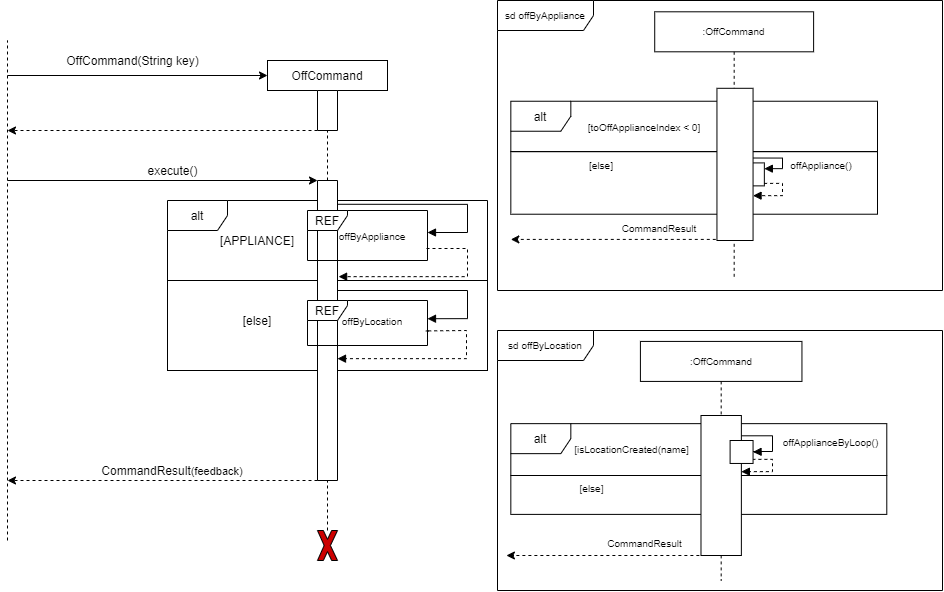
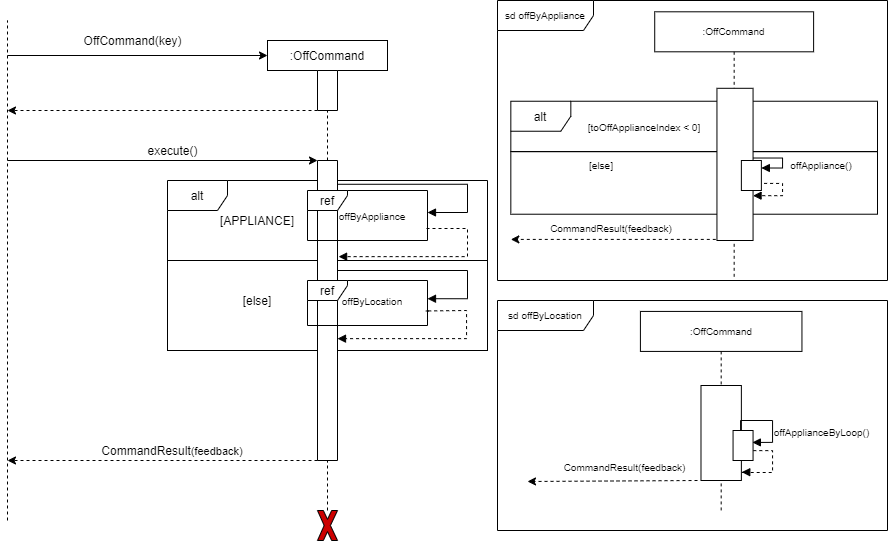
Added new information for the DeveloperGuide.md

diff --git a/docs/DeveloperGuide.md b/docs/DeveloperGuide.md
@@ -63,49 +63,96 @@ The rest of the App consists of four components.
 
 
 ### Model Component
-
+![Model Component](images/diagrams/ClassDiagram_DataOverview.png)
 
  
 ## Implementation
 
-### Model Component
-![Summarised Model Component](images/diagrams/SummarisedClassDiagram.png)
-
-The *Model Component* shown above explains the summarised model of SmartHomeBot. The four appliances classes are extended from the abstract appliance class. 
-
+### Data Component
 ### Detailed Model Component 
-![Detailed Model Component](images/diagrams/FullDataClassDiagram.png)
-The *Detailed Model Component* shown above explains the full detailed model of SmartHomeBot; which includes all of their variables and methods. 
+The *Model Component* shown above explains the summarised model of SmartHomeBot. The four appliances classes are extended
+from the abstract appliance class. 
+
+![Detailed Model Component](images/diagrams/ClassDiagram_DetailedData.png)
+
+To create an Appliance, we pass the name, location, wattage, power and the entire locationList. We first check from the 
+locationList if the name of the appliance is inside the locationList, and the location exists within the locationList. 
+If all these conditions are met, the Appliance will be created. It will be appended into the ApplianceList with the 
+`addAppliance()` method. 
+
+The Power class is responsible for computing the appliance’s power consumption.
+
+The public methods in the Appliances accessible via the ApplianceList are used to manipulate the appliances such as
+turning `ON` and `OFF`. From the appliance class, the program will be able to retrieving the name, location, statuses of
+the appliances. 
 
 ### Command Component
 
 #### Create Command
 ![Sequence of Create Command](images/diagrams/Sequence_CreateCommand.png) <br>
-The *Create Command* shown above explains the Sequence Diagram of the Create Command.
+The *CreateCommand* shown above explains the Sequence Diagram of the Create Command.
 #### Remove Command 
 ![Sequence of Remove Command](images/diagrams/Sequence_RemoveCommand.png) <br>
-The *Remove Command* shown above explains the Sequence Diagram of the Remove Command.
+The *RemoveCommand* shown above explains the Sequence Diagram of the Remove Command.
 #### Add Command
 ![Sequence of Add Command](images/diagrams/Sequence_AddCommand.png) <br>
-The *Add Command* shown above explains the Sequence Diagram of the Add Command.
+The *AddCommand* shown above explains the Sequence Diagram of the Add Command.
 #### Delete Command
 ![Sequence of Delete Command](images/diagrams/Sequence_DeleteCommand.png) <br>
-The *Delete Command* shown above explains the Sequence Diagram of the Delete Command.
+The *DeleteCommand* shown above explains the Sequence Diagram of the Delete Command.
 #### On Command
+
+The *OnCommand* shown below explains the Sequence Diagram of the On Command. When the Main class calls the execute() function there will be are 2 cases for on command to flow:
+1. OnByLocation
+2. OnByAppliance
+
 ![Sequence of On Command](images/diagrams/Sequence_OnCommand.png) <br>
-The *On Command* shown above explains the Sequence Diagram of the On Command.
+
+The program will determine if the user inputted: key is a name of an appliance, or a location.THis is done by checking the key in the LocationList, if it exists, the program will deem it as 'OnByLocation' vice versa.
+
+##### 1. OnByLocation
+The first condition checks if the user types in any parameter into the command, if so, the program will be unable to turn on
+the appliances in the location. This is done as not all parameters are accepted by every appliance, for example,
+setTemperature is only accepted for Air Conditioner. Thus, the parameter option is only opened to the OnByAppliance method.
+Then, onByApplianceLoop will be called to turn on all appliances in the location.
+
+##### 2. OnByAppliance
+The first condition checks the index of the tagged appliance in the applianceList. If the index is negative, this signifies
+that that key does not exist in the location or appliance list. Else, we will call the onAppliance method.
+
+##### CommandResult
+Each condition will correspond to a reciprocal CommandResult printout.
+
+
 #### Off Command
+
+The *OffCommand* shown below explains the Sequence Diagram of the Off Command. When the Main class calls the `execute()` function there are 2 cases for off command:
+1. OnByLocation
+2. OnByAppliance
+
 ![Sequence of Off Command](images/diagrams/Sequence_OffCommand.png) <br>
-The *Off Command* shown above explains the Sequence Diagram of the Off Command.
+
+The program will determine if the user inputted: key is a name of an appliance or a location. This is done by checking the key in the LocationList, if it exists, the program will deem it as 'OffByLocation' vice versa.
+
+##### 1. OffByLocation
+This method will call offByApplianceLoop which turns off every appliance in that location.
+
+##### 2. OffByAppliance
+The first condition checks the index of the tagged appliance in the applianceList. If the index is negative, this signifies that that key does not exist in the location or appliance list. Else, we will call the offAppliance method.
+
+##### CommandResult
+Each condition will correspond to a reciprocal CommandResult printout.
+
+
 #### Invalid Command
 ![Sequence of Invalid Command](images/diagrams/Sequence_InvalidCommand.png) <br>
-The *Invalid Command* shown above explains the Sequence Diagram of the Invalid Command.
+The *InvalidCommand* shown above explains the Sequence Diagram of the Invalid Command.
 #### Help Command
 ![Sequence of Help Command](images/diagrams/Sequence_HelpCommand.png) <br>
-The *Help Command* shown above explains the Sequence Diagram of the Help Command.
+The *HelpCommand* shown above explains the Sequence Diagram of the Help Command.
 #### Exit Command
 ![Sequence of Off Command](images/diagrams/Sequence_ExitCommand.png) <br>
-The *Exit Command* shown above explains the Sequence Diagram of the Exit Command.
+The *ExitCommand* shown above explains the Sequence Diagram of the Exit Command.
 #### CommandResult Command
 ![Sequence of CommandResult Command](images/diagrams/Sequence_CommandResult.png) <br>
 The *CommandResult* shown above explains the Sequence Diagram of the CommandResult.
@@ -221,3 +268,42 @@ respective CommandObject to execute the command.
 Sequence Diagram for `default`
 
 ![Parser Model Component](images/diagrams/Sequence_Parser_Default.png)
+
+
+
+## Product scope
+
+### Target user profile
+
+Disabled Home Users who want to automate/monitor their home with smart home devices.
+
+### Value proposition
+
+This program consolidates all the home appliance’s control into a centralised system. Users can also review and 
+monitor electricity usage; having a clearer picture of their electrical usage patterns. We can extract the latest 
+electricity price to calculate users’ utility bills. A backlog of the usage can also be recorded. 
+
+## User Stories
+
+|Version| As a(n) ... | I want to ... | So that I can ...|
+|--------|----------|---------------|------------------|
+|v1.0|Inexperienced user|list all the functions of the app |To see what he can do. |
+|v1.0|New user |add new locations into SmartHomeBot|Tag these locations into appliances |
+|v1.0|New user |add new appliances|Manipulate and view his appliances usage|
+|v1.0|disabled user |On/Off appliances|Turn on and off appliances without moving much|
+|v1.0|Lazy user|list all the appliances in SmartHomeBot|Remove unnecessary locations and appliances|
+|v1.0|Calculative user |View usage of his appliances|View all the appliances and see their status|
+|v2.0|Lazy user|Change the temperature of the air-conditioner and the speed of the fan from SmartHomeBot|Monitor his smart home appliances|
+|v2.0|Experienced SmartHomeBot user|On/OFF appliances by location and list appliances by location|Easily view and manipulate appliances by location|
+
+## Non-Functional Requirements
+
+{Give non-functional requirements}
+
+## Glossary
+
+* *glossary item* - Definition
+
+## Instructions for manual testing
+
+{Give instructions on how to do a manual product testing e.g., how to load sample data to be used for testing}
